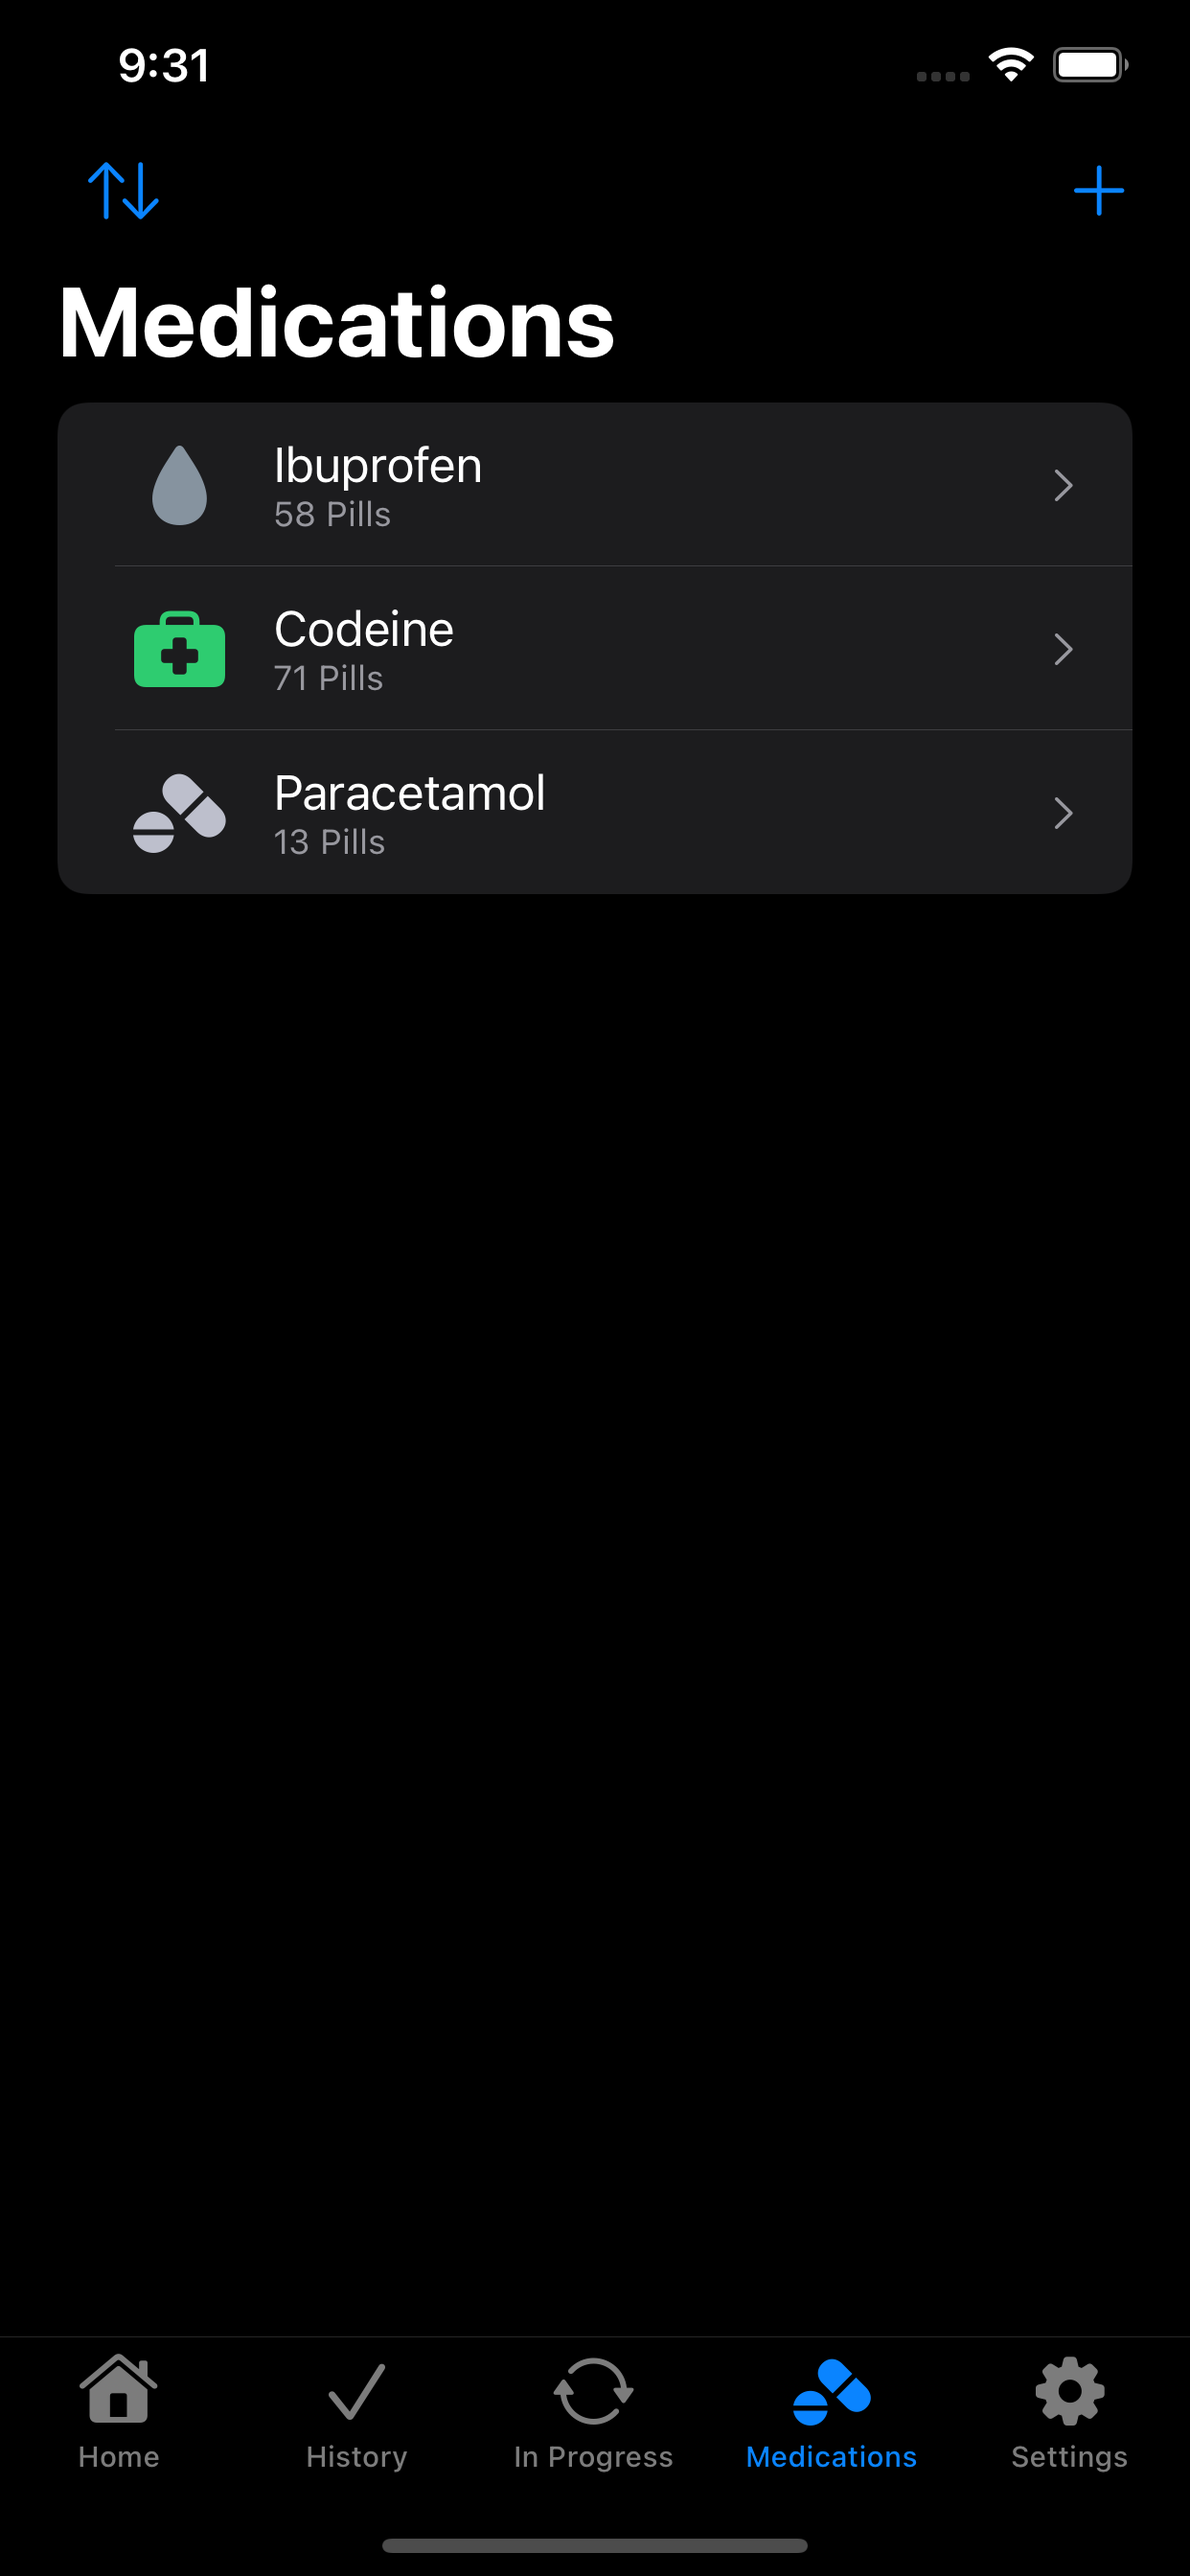
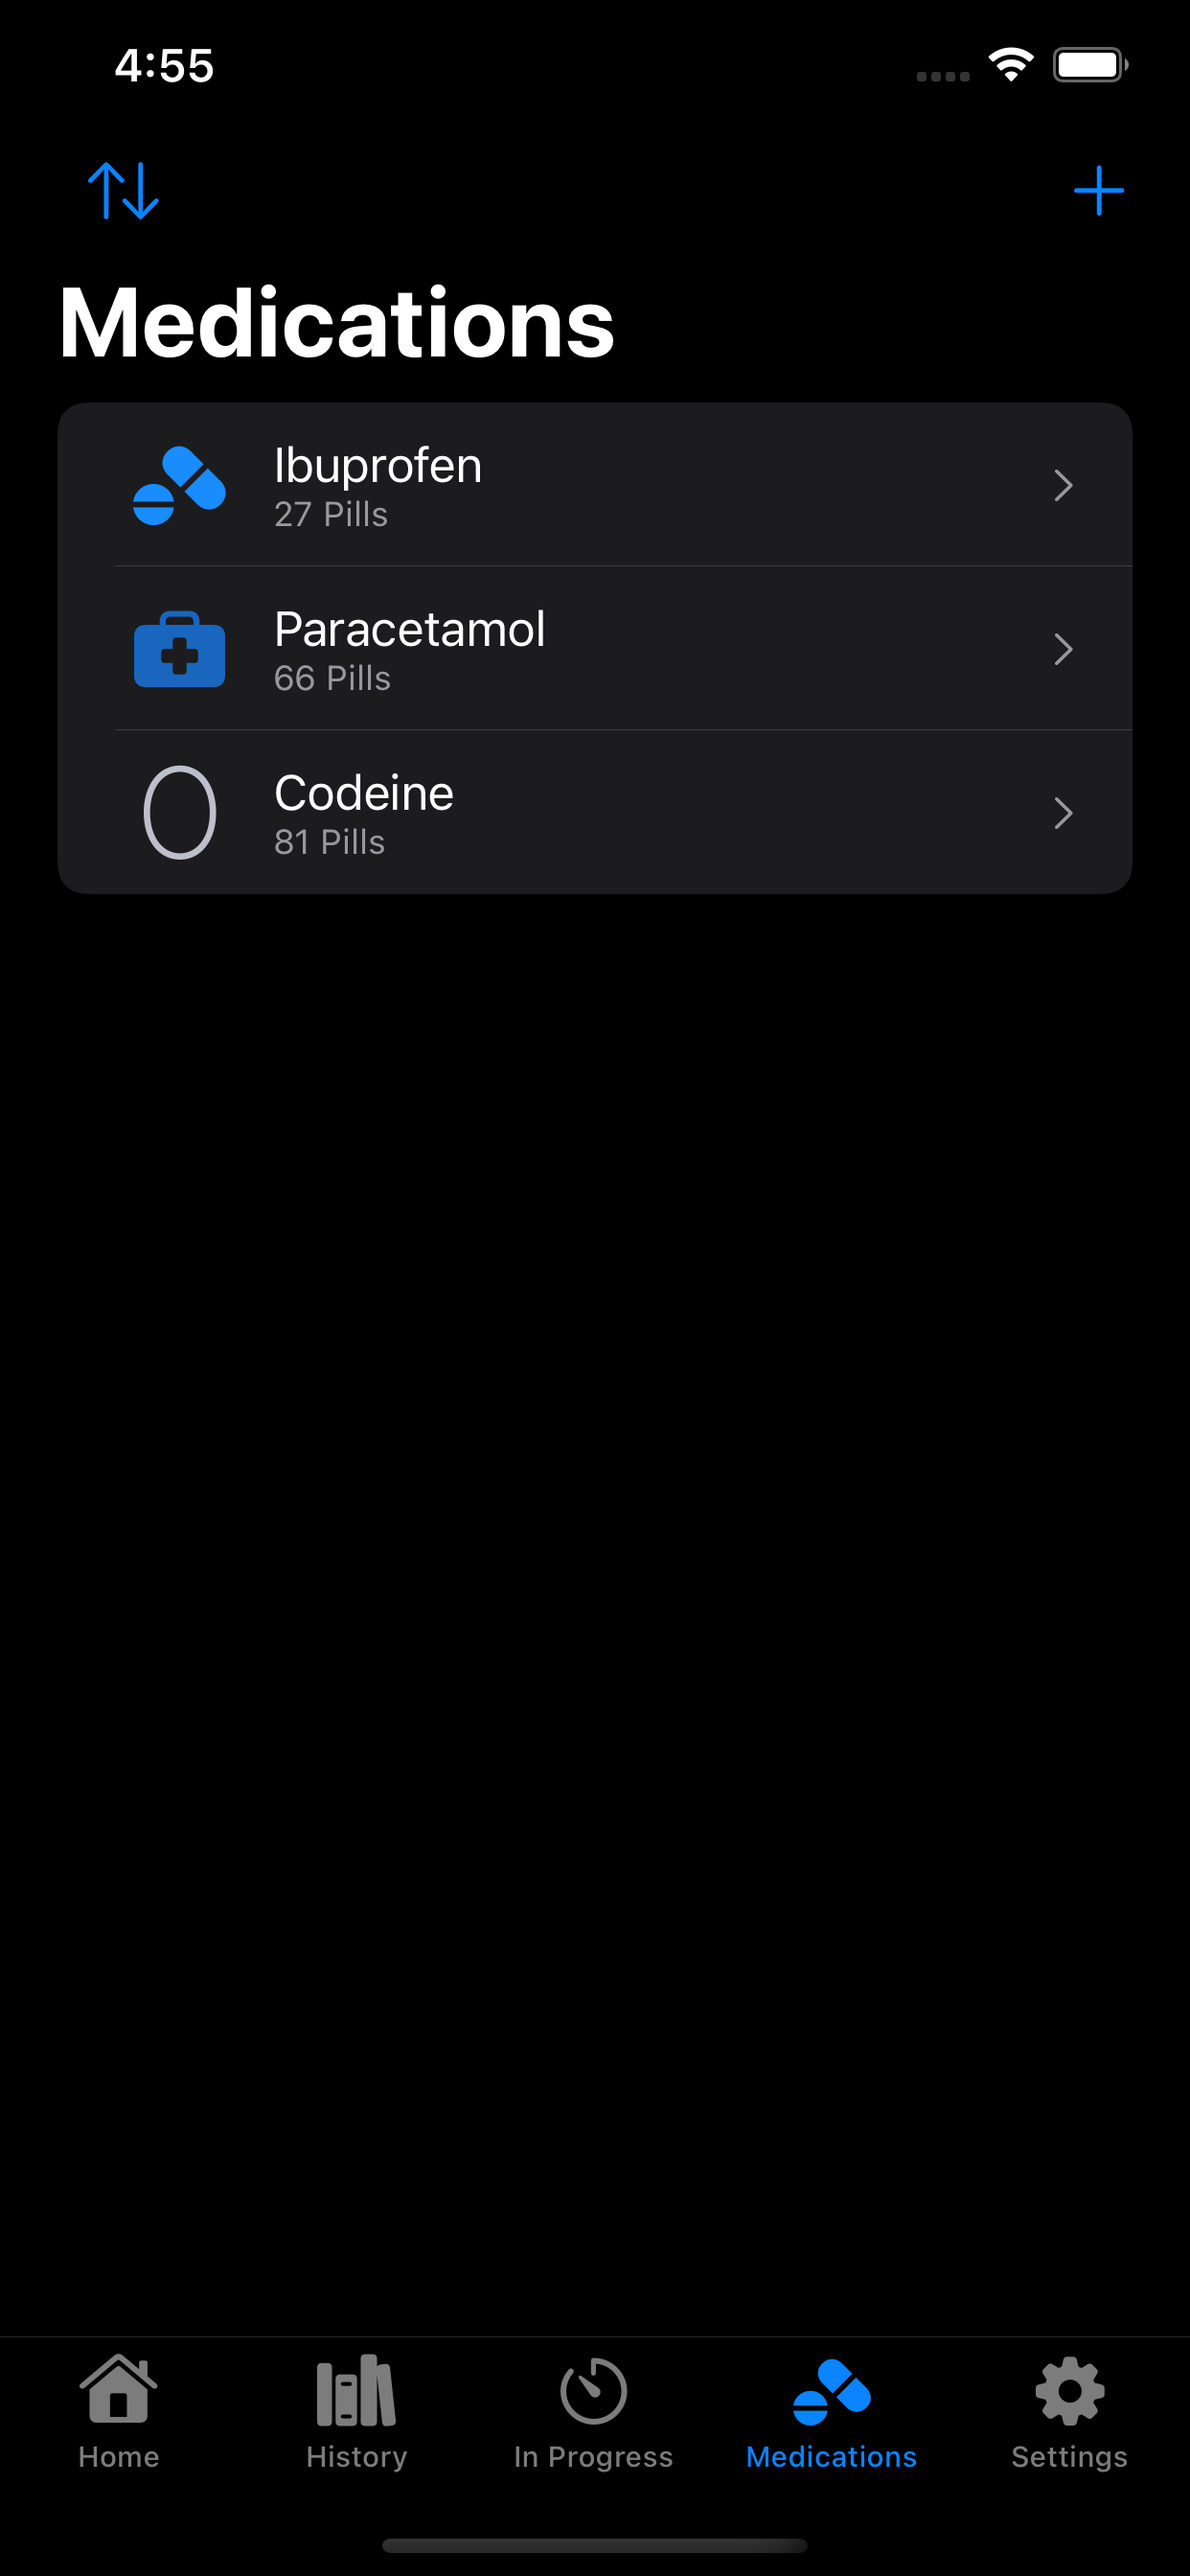
Fix: Tab bars not displaying on settings screen and doses view. Home progress additional disabled logic for elapsed. Updated fastlane screenshots.

diff --git a/PainMedsBuddy/Routes/Home/HomeDoseProgressView.swift b/PainMedsBuddy/Routes/Home/HomeDoseProgressView.swift
@@ -42,7 +42,7 @@ struct HomeDoseProgressView: View {
 
     var countDown: String {
         showEmptyView ? "00:00:00" :
-            dose.doseShouldHaveElapsed
+            (dose.doseElapsed || dose.doseShouldHaveElapsed)
             ? String(.doseProgressAvailable)
             : dose.doseCountDownSeconds(nowDate: nowDate)
     }
@@ -60,6 +60,10 @@ struct HomeDoseProgressView: View {
         !showEmptyView ? med.medTitle : ""
     }
 
+    var disabled: Bool {
+        showEmptyView || (!dose.doseShouldHaveElapsed && !dose.elapsed)
+    }
+    
     var circle: some View {
         VStack(alignment: .center) {
             CircularProgressView(
@@ -166,10 +170,10 @@ struct HomeDoseProgressView: View {
     var body: some View {
         ZStack {
             circle
-                .disabled(showEmptyView || !dose.doseShouldHaveElapsed)
+                .disabled(disabled)
 
             detail
-                .disabled(showEmptyView || !dose.doseShouldHaveElapsed)
+                .disabled(disabled)
 
             if dose.elapsed {
                 cornerClose

diff --git a/PainMedsBuddy/Routes/Settings/SettingsDeveloperView.swift b/PainMedsBuddy/Routes/Settings/SettingsDeveloperView.swift
@@ -52,6 +52,9 @@ struct SettingsDeveloperView: View, DestinationView {
         .onAppear(perform: {
             self.tabBarHandler.hideTabBar()
         })
+        .onDisappear(perform: {
+            self.tabBarHandler.showTabBar()
+        })
     }
 
     func alertOption() -> Alert {

diff --git a/PainMedsBuddy/Routes/Settings/SettingsAdvancedView.swift b/PainMedsBuddy/Routes/Settings/SettingsAdvancedView.swift
@@ -50,6 +50,9 @@ struct SettingsAdvancedView: View, DestinationView {
         .onAppear(perform: {
             self.tabBarHandler.hideTabBar()
         })
+        .onDisappear(perform: {
+            self.tabBarHandler.showTabBar()
+        })
     }
 
     func alertOption() -> Alert {

diff --git a/PainMedsBuddy/Routes/Doses/DoseEditView.swift b/PainMedsBuddy/Routes/Doses/DoseEditView.swift
@@ -215,6 +215,9 @@ struct DoseEditView: View, DestinationView {
 
             self.viewModel.checkNotificationAbility(startUp: true)
         })
+        .onDisappear(perform: {
+            self.tabBarHandler.showTabBar()
+        })
     }
 
     func popupOption() -> some View {

diff --git a/PainMedsBuddy/Routes/Home/HomeViewModel.swift b/PainMedsBuddy/Routes/Home/HomeViewModel.swift
@@ -100,7 +100,7 @@ extension HomeView {
                 }
                 return $0.elapsed == false
             }
-            
+
             return filtered.sorted(by: \Dose.doseTakenDate)
         }
 
